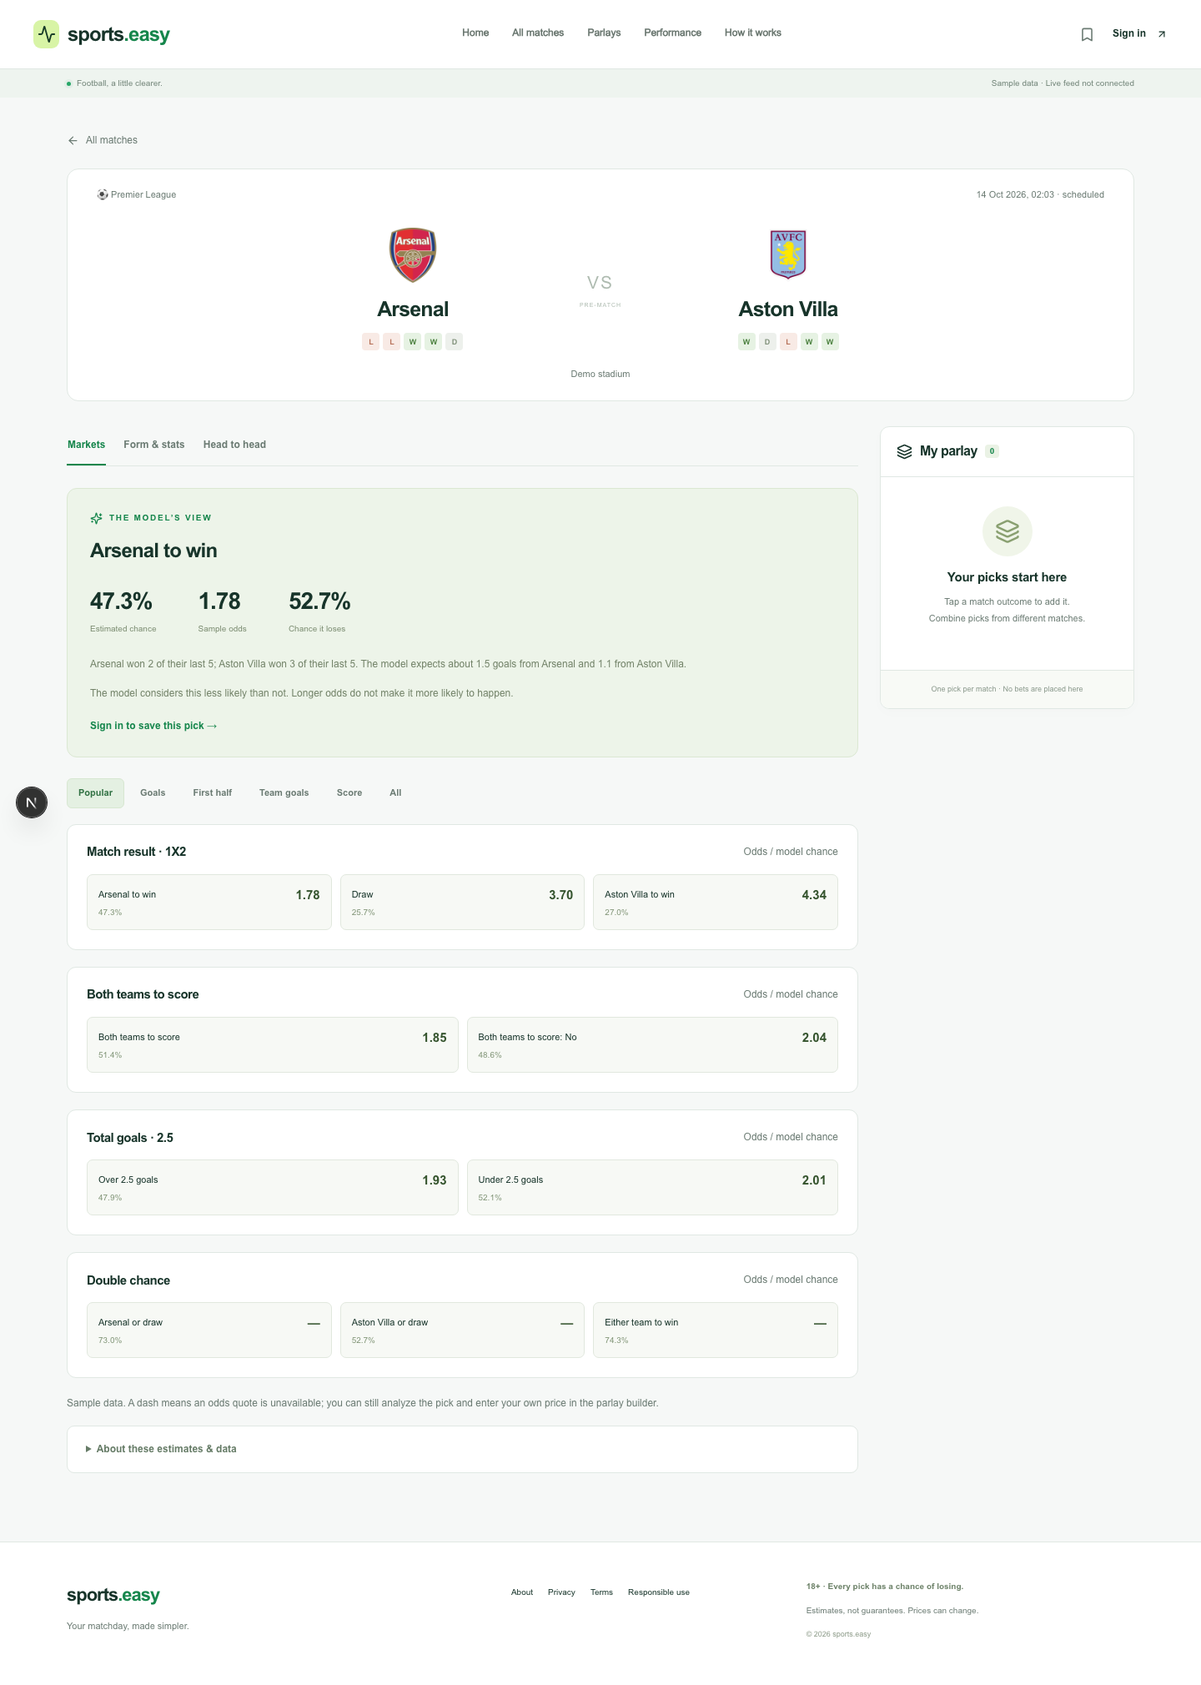
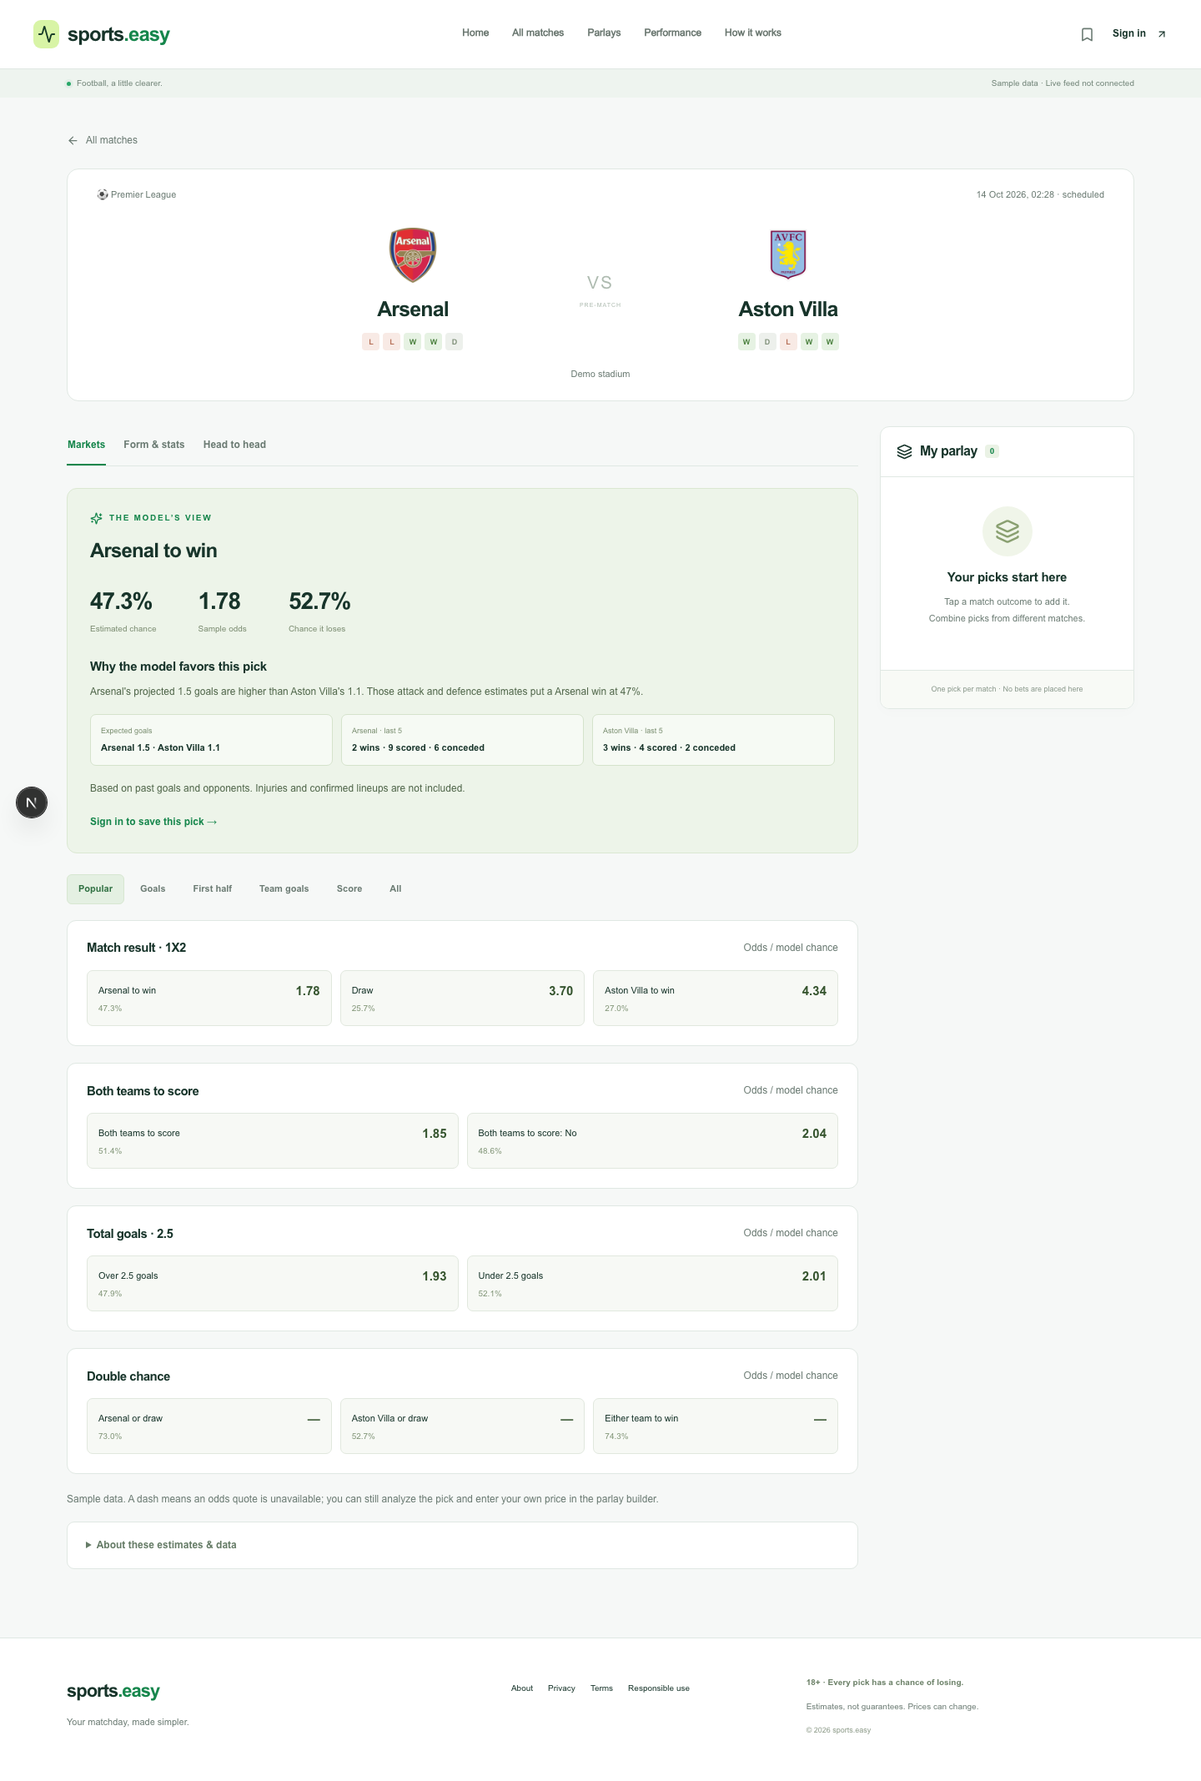
Document five-league chronological shortlists and analysis evidence

diff --git a/docs/verification.md b/docs/verification.md
@@ -4,18 +4,18 @@ Local verification on 13 October 2026, after the matchday redesign. Provider cre
 
 ## Completed checks
 
-- **52 backend tests passed.** Coverage includes original auth, ingestion, model and settlement checks plus official recommendation freezing, single-source prices, goal-market probability coherence, separate first-half estimation and abstention, parlay arithmetic (three user prices of 2.00 give 8.00), correlated/invalid/started-leg rejection, unquoted outcomes, and suggested-parlay price ranges.
+- **56 backend tests passed.** Coverage includes original auth, ingestion, model and settlement checks plus official recommendation freezing, single-source prices, goal-market probability coherence, separate first-half estimation and abstention, parlay arithmetic (three user prices of 2.00 give 8.00), correlated/invalid/started-leg rejection, unquoted outcomes, and suggested-parlay price ranges. New regressions cover five-league provider requests, isolated model histories, league filters, chronological 24-hour featured windows, retention of distant historical picks, and reasons for every supported market.
 - **Five Chromium end-to-end tests passed.** Covered recommendation browsing, club crests, selecting matches, user-entered parlay prices, browser save/reload/reopen, team search, first-half markets, chosen-pick analysis, recent form, previous meetings, empty searches, admin protection, model suggestions, official-pick performance, registration/verification/login/saved picks, desktop layout and six mobile routes at 390px.
-- **PostgreSQL 17.11 verified in a disposable container.** All migrations applied, 276 synthetic fixtures seeded, SQL UPDATE rejected on both publications and official recommendations, advisory lock exclusion verified, and repeated scheduling produced no duplicate job. The worker's scheduling key includes the model version so a model upgrade runs immediately in the current bucket.
+- **PostgreSQL 17.11 verified.** The earlier disposable test applied migrations, seeded 276 fixtures, rejected SQL UPDATE on publications and official recommendations, verified advisory lock exclusion and prevented duplicate jobs. The five-league upgrade now persists 1,380 fixtures in the retained Docker database, including the original English records. The updated CI smoke check asserts the expanded seed count. The worker's scheduling key includes the model version so a model upgrade runs immediately in the current bucket.
 - Ruff lint/format, ESLint, TypeScript and the Next.js production build passed. Docker production build also passed, including copied local club crest assets.
-- Complete local Docker stack rebuilt and left **running**: database and API healthy, worker running, web accessible on `http://localhost:3000`. Same-origin readiness, five recommended picks, upcoming match data and the five-pick performance archive were verified. The original database volume, demo timeline, accounts and saved records were retained.
+- Complete local Docker stack rebuilt and left **running**: database and API healthy, worker running, web accessible on `http://localhost:3000`. The previous release verified same-origin readiness, five recommended picks and the performance archive. The five-league update returned all five leagues, chronological featured picks with reasons spanning less than 24 hours, 58 still-upcoming fixtures at verification, new club crest HTTP 200, and nine total archived recommendations after filling the new window. The original database volume, demo timeline, accounts and saved records were retained.
 - Earlier dependency audits on the unchanged dependency set reported no known Python vulnerabilities and zero npm vulnerabilities.
 - Screenshots inspected: [Home desktop](screenshots/home-desktop.png), [Home mobile](screenshots/home-mobile.png), [All matches](screenshots/matches-desktop.png), [Match analysis](screenshots/match-desktop.png), [Parlays mobile](screenshots/parlays-mobile.png), [Performance](screenshots/performance-desktop.png). These use synthetic data and a development-tool badge.
 - Current API schema exported to [openapi.json](openapi.json).
 
 ## GitHub validation
 
-The application was committed and pushed to `filipswe/sports.easy` on `main`. GitHub's web and secret scanning checks passed for the first application commit. The backend job failed at GitHub's service-container initialization before executing tests. The second commit replaces that initialization with explicit PostgreSQL startup and cleanup. All three checks passed on that commit: backend tests/PostgreSQL/audit, web lint/types/build/audit/browser tests, and secret scanning. The additional higher-odds parlay regression (50–150) passed in the six-test matchday suite.
+Changes are committed and pushed in tested stages to `filipswe/sports.easy` on `main`. The prior release’s final GitHub run passed all jobs. GitHub's web and secret scanning checks passed for the first application commit. The backend job failed at GitHub's service-container initialization before executing tests. The second commit replaces that initialization with explicit PostgreSQL startup and cleanup. All three checks passed on that commit: backend tests/PostgreSQL/audit, web lint/types/build/audit/browser tests, and secret scanning. The additional higher-odds parlay regression (50–150) passed in the six-test matchday suite.
 
 ## Boundaries
 
@@ -26,3 +26,7 @@ Tests use Chromium, not a complete cross-browser matrix. Automated tests and vis
 ## Handoff
 
 Open `http://localhost:3000`; the updated Docker application is running. Future restarts use `docker compose up -d`. Rebuilding after source changes uses `docker compose up --build -d`. The disposable PostgreSQL test container was removed. The repository ignores credentials, local databases, dependencies, build output and test traces.
+
+## Latest matchday update
+
+The five-league implementation is in commit `ee22b3a`. Local checks passed: 56 backend tests, five browser workflows (including kickoff-order assertions and first-half explanation checks), Ruff, ESLint, TypeScript and production/Docker builds. The remote run is tracked in GitHub Actions. All live-provider checks remain mocked until credentials are configured.

diff --git a/docs/architecture.md b/docs/architecture.md
@@ -24,7 +24,7 @@ See README for exact start commands used by every milestone.
 
 ## Persistence choices
 
-Competitions include a season value; separate season tables are deferred for the single-league MVP. Team and fixture IDs are canonical UUIDs with unique prefixed provider IDs. Reviewed cross-provider aliases have a unique provider/type/external-ID constraint. Fixtures hold mutable provider status, regulation goals and half-time goals. Quote snapshots store decimal precision, bookmaker, fixed market code, source timestamp and fetch timestamp. Markets and outcomes are bounded enums in code, avoiding unnecessary catalog tables for the supported market catalog. Dedicated richer team-statistics tables are deferred; currently the only model inputs are fixture results.
+Competitions include a season value and explicit provider league identity; the top five domestic leagues are supported. Team and fixture IDs are canonical UUIDs with unique prefixed provider IDs. Reviewed cross-provider aliases have a unique provider/type/external-ID constraint. Fixtures hold mutable provider status, regulation goals and half-time goals. Quote snapshots store decimal precision, bookmaker, fixed market code, source timestamp and fetch timestamp. Markets and outcomes are bounded enums in code, avoiding unnecessary catalog tables for the supported market catalog. Dedicated richer team-statistics tables are deferred; currently the only model inputs are fixture results.
 
 Predictions retain model version, generation time, cutoff, history fetch time, predicted kickoff, input hash, probabilities and structured model factors. Publications point to exact predictions and quotes. Saved picks and official recommendations point to publications. Recommendations are unique per fixture and immutable. Browser parlay selections/saves are stored locally and are analyzed by the server. SQLAlchemy guards immutable version changes; the PostgreSQL migration additionally blocks UPDATE/DELETE through database triggers. Settlement corrections create revisions linked to their predecessor. The fixture source state is mutable, but an old probability or price is never rewritten. A price snapshot is an observation, not evidence that a bet could be executed.
 
@@ -59,4 +59,6 @@ Interactive specification: `/api/docs`; machine-readable OpenAPI: `/api/openapi.
 
 Failures use `{ "error": { "message": "…", "fields": [...] } }`. GET searches are side-effect-free and never call providers. Filters serialize to URL parameters. `start` and `end` must both be timezone-aware, end-exclusive, ≤31 days apart. Matchday today/tomorrow filters currently use UTC day boundaries; kickoff display uses the browser timezone. Display time uses the account timezone if supplied. Matchday and parlay prices use decimal odds.
 
-Search currently joins persisted publications then filters/ranks in Python, with bounded output pagination. This is intentionally readable for one league; replace with SQL window functions for latest snapshots and SQL filtering, and benchmark before enlarging coverage or long-term archives. Performance reporting uses each official recommendation’s frozen original publication, including both wins and losses.
+Search currently joins persisted publications then filters/ranks in Python, with bounded output pagination. This is intentionally readable for the current five-league fixture set; replace with SQL window functions for latest snapshots and SQL filtering, and benchmark before enlarging coverage or long-term archives. Performance reporting uses each official recommendation’s frozen original publication, including both wins and losses.
+
+Prediction training, recent form and evaluation are isolated by league. The five-league catalog also drives live provider requests and demo club identities. Reasons are derived on the server from saved model factors and supplied for each market outcome. Featured recommendations use a nearest 24-hour window and kickoff ordering, while immutable historical recommendation records remain available to Performance.

diff --git a/README.md b/README.md
@@ -7,8 +7,8 @@ The local installation currently uses synthetic fixtures and prices. Live use re
 ## What works
 
 - Light responsive Home, All matches, match analysis, Parlays, Performance and How it works pages, with club crests and simple navigation.
-- Five model-selected recommendations, frozen before kickoff. Performance follows these exact picks and their original odds, including losses and settlement corrections.
-- Upcoming fixtures, team search, dates and league filters; match stats, last-five form, previous meetings, and analysis of the user's chosen outcome.
+- Up to five model-selected recommendations across Premier League, La Liga, Serie A, Bundesliga and Ligue 1, chosen within the next 24-hour matchday window and displayed by kickoff. Performance follows these exact picks and their original odds, including losses and settlement corrections.
+- Upcoming fixtures, team search, dates and league filters; match stats, last-five form, previous meetings, and specific reasons for the model's view of every chosen outcome. All matches remain in kickoff order.
 - Model estimates for 1X2, BTTS, several goal lines, first-half goals when history supports them, double chance, team goals and correct scores. Quotes are shown only when available; currently priced sample markets are 1X2, BTTS and totals 2.5.
 - Custom parlays, model suggestions within combined-odds ranges, combined probability and odds, user-entered prices and browser saves. One selection per match; repeated clubs are excluded.
 - One configured sportsbook source (`ODDS_BOOKMAKER_KEY=pinnacle` for live ingestion). No bookmaker comparison UI. Missing prices are shown as a dash.
@@ -149,7 +149,7 @@ The admin command requires an existing verified account and records an audit eve
 
 Read [provider capability, cost and rights notes](docs/providers.md) before enabling live mode. You need API-Football and The Odds API credentials/entitlements, a selected region, reviewed display/retention rights, SMTP, HTTPS and a real deployment secret. No credentials are bundled, and live mode never substitutes synthetic data. The adapters have not been tested against paid accounts in this session.
 
-Deliberately deferred: LLM commentary (deterministic explanations work), calibrated probabilities, archival historical odds ingestion, real validated performance, extra leagues, expanded live-market prices, injuries/lineups/xG/standings feeds and payment/betting operations. Dedicated model-input version storage, SQL-based large-archive ranking, shared rate limiting and production observability integration need further work before scale. This MVP uses compact season/market/stat representations instead of building unnecessary unused tables. See the [architecture and actual controls](docs/architecture.md), [model methodology](docs/methodology.md), [deployment/rollback guide](docs/deployment.md) and [verification report](docs/verification.md).
+Deliberately deferred: LLM commentary (deterministic explanations work), calibrated probabilities, archival historical odds ingestion, real validated performance, additional leagues beyond the top five, expanded live-market prices, injuries/lineups/xG/standings feeds and payment/betting operations. Dedicated model-input version storage, SQL-based large-archive ranking, shared rate limiting and production observability integration need further work before scale. This MVP uses compact season/market/stat representations instead of building unnecessary unused tables. See the [architecture and actual controls](docs/architecture.md), [model methodology](docs/methodology.md), [deployment/rollback guide](docs/deployment.md) and [verification report](docs/verification.md).
 
 ## Troubleshooting
 

diff --git a/docs/product-update.md b/docs/product-update.md
@@ -4,7 +4,7 @@ The main navigation is Home, All matches, Parlays, Performance and How it works.
 
 ## Recommended picks
 
-The worker freezes up to five official recommendations, with one pick per fixture. Eligible priced outcomes are ranked by estimated model probability; the recorded pick stays unchanged. Live recommendations require fresh prices. The worker fills vacancies as matches finish or become unavailable. Performance counts only these official picks at their original publication and odds. Existing quotes, saved records, model versions and settlement revisions remain in the database.
+The worker freezes up to five official recommendations across Premier League, La Liga, Serie A, Bundesliga and Ligue 1, with one pick per fixture. The featured window starts at the earliest eligible kickoff and lasts 24 hours. Priced outcomes within that window are selected by estimated model probability and displayed in kickoff order; the recorded pick stays unchanged. Live recommendations require fresh prices. The worker fills vacancies within the current matchday window. Older distant recommendations remain in the performance archive but are excluded from the featured section. All matches can span seven days and are also always shown in kickoff order. Performance counts only these official picks at their original publication and odds. Existing quotes, saved records, model versions and settlement revisions remain in the database.
 
 ## Markets and analysis
 
@@ -24,4 +24,10 @@ The product uses one odds source; multi-bookmaker comparison is removed from the
 
 ## Club crests
 
-The twelve sample clubs use local API-Sports crest PNGs. Additional API-Football club identities use that provider's corresponding crest URL. A text fallback handles image failures. Image display rights must be covered by the provider agreement before commercial operation. No club endorsement is implied.
+The sixty sample clubs across the five leagues use local API-Sports crest PNGs. Additional API-Football club identities use that provider's corresponding crest URL. A text fallback handles image failures. Image display rights must be covered by the provider agreement before commercial operation. No club endorsement is implied.
+
+## League isolation and pick reasons
+
+Live football and odds adapters request all five configured leagues. History, model fits, recent form and chronological evaluation are separated by league, including matching past seasons of the same league. Demo ingestion adds four leagues to the existing English demo, retaining its original IDs, timeline, quotes, saved accounts and official records. The expanded seed has 1,320 historical fixtures and 60 upcoming fixtures; upcoming fixtures disappear normally at kickoff.
+
+Every market outcome has a server-generated explanation from its saved model factors: projected home/away goals, last-five goals scored/conceded and wins, the probability calculation relevant to that market, and whether it is actually the model's leading outcome. First-half explanations use the separate half-time fit, not full-time goal rates. Lower-chance selections are clearly identified. Featured cards include “Why this pick?”; the match analysis expands the explanation and supporting figures. No injuries, lineups or fabricated qualitative claims are used.

diff --git a/docs/methodology.md b/docs/methodology.md
@@ -35,3 +35,11 @@ Prediction objects are immutable. However, source fixture history is mutable and
 Version poisson-v1.1 fits a separate first-half model from recorded half-time scores. It uses the same past-only availability cutoff, regularization and minimum samples as the full-time fit. The three first-half goal lines are unavailable if those samples are missing. Extended full-time totals and team totals use analytic Poisson probabilities; correct scores include a remaining-score bucket so the distribution sums to one. Double-chance outcomes overlap and are not a mutually exclusive distribution.
 
 Parlays use one selection per fixture and reject repeated clubs. Combined probability is the product of leg probabilities under the independence approximation, not a calibrated joint estimate. Prices are multiplied from one common sportsbook only, or from explicitly user-entered prices for every leg. Suggestions search priced outcomes with a bounded beam; the available source coverage and search bounds limit what can be returned. Expanded model estimates do not imply that those sportsbook prices exist.
+
+## Top-five-league matchday policy
+
+Version poisson-v1.2 fits each league independently and saves last-five scoring summaries in the prediction factors. A per-ingestion cache reuses the same fitted league strengths for fixtures sharing the same eligible history and cutoff; it does not reuse a fit across leagues or changed histories. Historical evaluation uses past-only league-specific training.
+
+The featured shortlist's 24-hour window begins at the earliest available priced fixture across the five leagues. Up to five distinct fixtures are selected by model probability, then displayed chronologically. This is a probability shortlist, not a requirement to publish one pick per league or extend the window to manufacture five picks. Old recommendations are never deleted; distant records remain in the archive until their outcomes arrive.
+
+Outcome explanations use the saved expected-goal rates and recent scoring summaries. Leading-outcome status is determined within the selected market (including three-way results). A result can be the leading 1X2 outcome while still having less than a 50% chance. First-half explanations use their own rates. Recent form figures provide supporting context, not a claim of causal feature attribution or injury knowledge.

diff --git a/docs/providers.md b/docs/providers.md
@@ -34,3 +34,7 @@ Missing keys or unapproved retention yields an explicit unavailable job. Live mo
 The matchday interface uses one sportsbook source. The Odds API lists Pinnacle in its EU coverage, and the documented `bookmakers` parameter overrides `regions`. This does not provide a Pinnacle account connection or bet placement. Market prices remain subject to feed availability. The existing adapter retrieves 1X2 and 2.5 total quotes; BTTS and expanded goal lines need per-event market integration for live prices. See [bookmaker coverage](https://the-odds-api.com/sports-odds-data/bookmaker-apis.html), [request parameters](https://the-odds-api.com/liveapi/guides/v4/) and [market catalog](https://the-odds-api.com/sports-odds-data/betting-markets.html).
 
 Club crest assets use the API-Sports media host, with local sample club files for the current fixtures. Display/retention rights and club identity accuracy need to be covered by the deployment operator's agreement.
+
+## Five-league requests
+
+The league catalog maps Premier League, La Liga, Serie A, Bundesliga and Ligue 1 to their API-Football league IDs and The Odds API sport keys. A complete football refresh requests two seasons for each league (10 requests); a complete odds sweep requests five leagues at two market credits each (10 reserved credits before retries). Daily budgets continue to cap requests, so production polling needs budgets and provider entitlements sized for five-league coverage. A failed live sweep never substitutes sample data.
